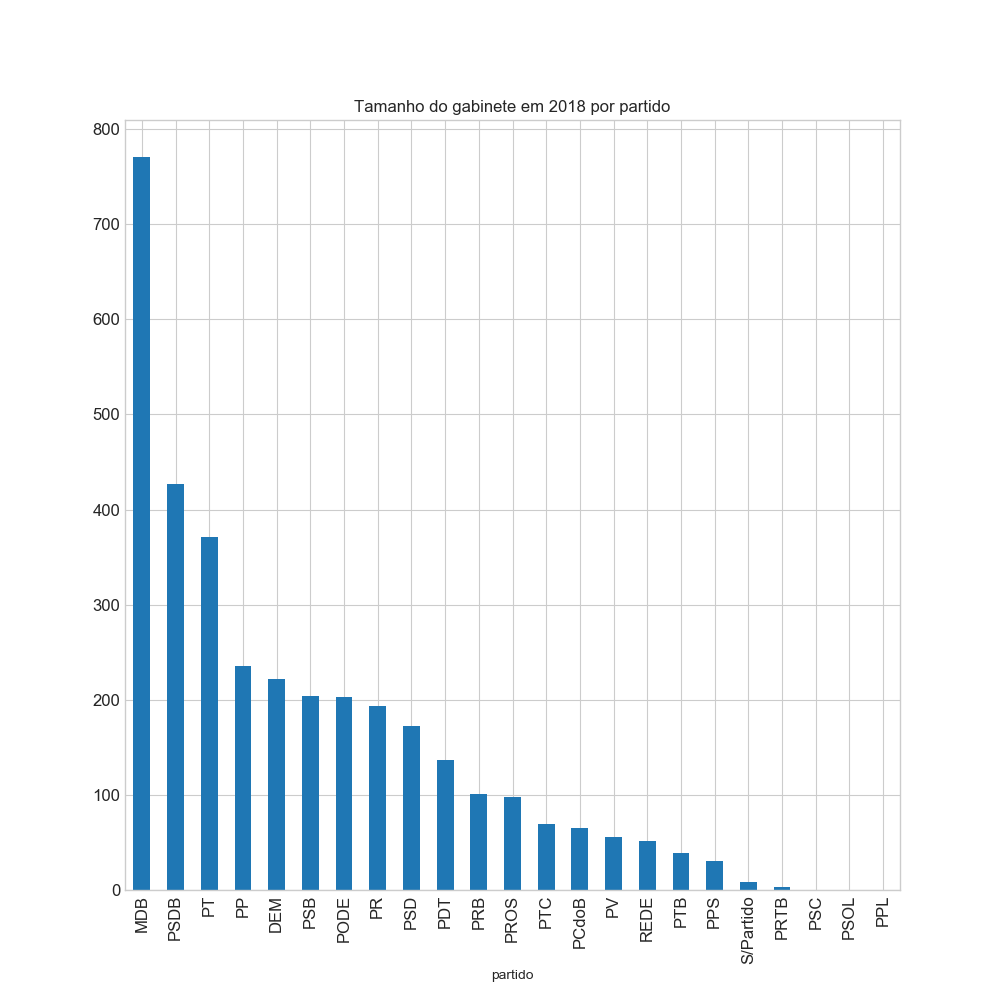
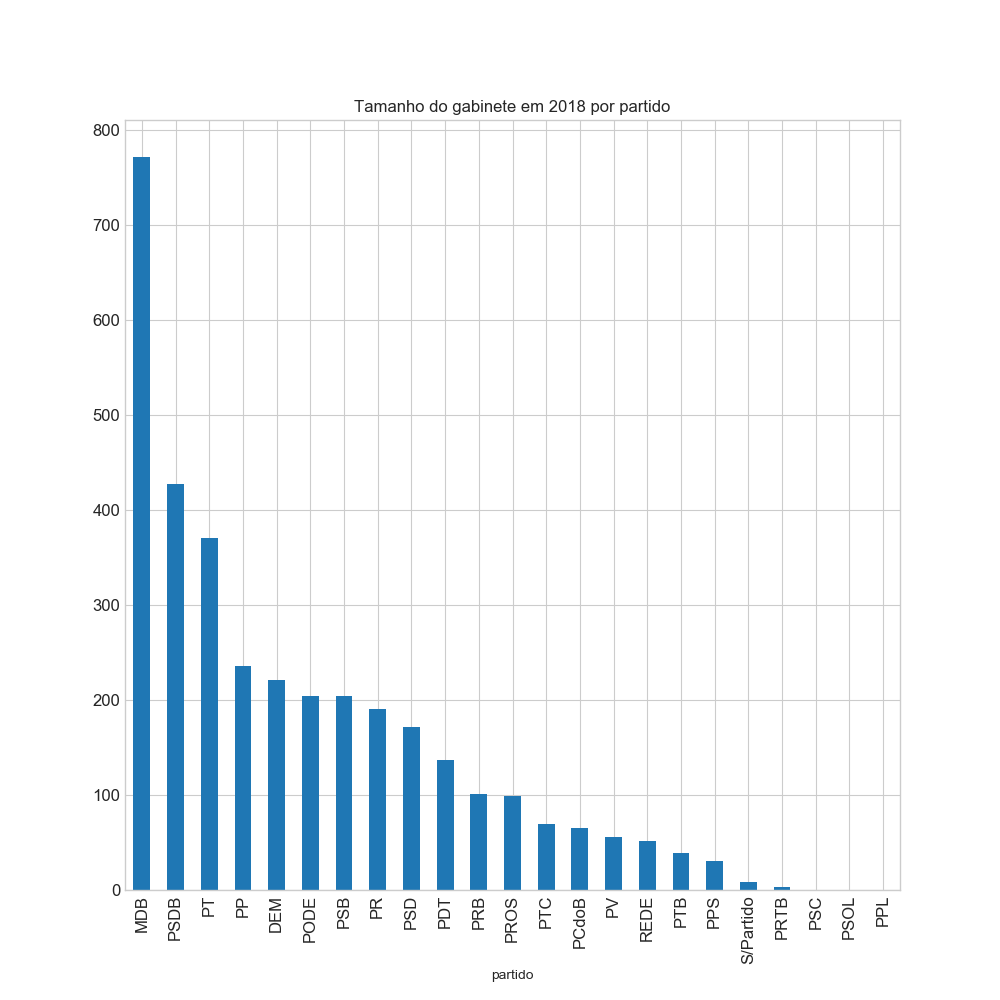
Atualização de dados do Senado (55)- auto

diff --git a/index.html b/index.html
@@ -29,9 +29,9 @@
       <div class="row"><b class="SenadoSubTitle">Informações de despesas de senadores</b><br></div>
       <div class="row"><b class="SenadoSubTitle">Dados coletados em 
 <!--Data-->       
-17/07/2018 às 
+18/07/2018 às 
 <!--Hora-->
-12:19:57      </b><br></div>
+11:19:55      </b><br></div>
       <br>
       <div class="TextoImagem">
         <center>
@@ -181,7 +181,7 @@
               <td>8</td>
               <td align='middle'><a href='http://www6g.senado.leg.br/transparencia/sen/3/?ano=2018' target='_blank'><img src='fotos/senador3.jpg' height='51' width='42'><span class='fototip'>Crédito foto: Cléber Medeiros/Supres</span></a></td>
               <td align='left'>Antonio Carlos Valadares</td>
-              <td align='left' class='gastos' name='3'>R$ 1.178.414,61</td>
+              <td align='left' class='gastos' name='3'>R$ 1.173.122,51</td>
               <td align='left'>Titular</td>
               <td align='middle'>SE</td>
               <td align='left'>PSB</td>
@@ -207,7 +207,7 @@
               <td align='left'>1º Suplente</td>
               <td align='middle'>TO</td>
               <td align='left'>PSDB</td>
-              <td align='right'>53 pessoas</td>
+              <td align='right'>54 pessoas</td>
               <td align='right'>41 meses</td>
             </tr>
             <tr>
@@ -416,7 +416,7 @@
               <td align='left'>1º Suplente</td>
               <td align='middle'>DF</td>
               <td align='left'>PROS</td>
-              <td align='right'>98 pessoas</td>
+              <td align='right'>99 pessoas</td>
               <td align='right'>0 meses</td>
             </tr>
             <tr>
@@ -537,7 +537,7 @@
               <td align='left'>Titular</td>
               <td align='middle'>SP</td>
               <td align='left'>PSDB</td>
-              <td align='right'>24 pessoas</td>
+              <td align='right'>23 pessoas</td>
               <td align='right'>39 meses</td>
             </tr>
             <tr>
@@ -625,7 +625,7 @@
               <td align='left'>Titular</td>
               <td align='middle'>SP</td>
               <td align='left'>MDB</td>
-              <td align='right'>43 pessoas</td>
+              <td align='right'>44 pessoas</td>
               <td align='right'>41 meses</td>
             </tr>
             <tr>
@@ -823,7 +823,7 @@
               <td align='left'>Titular</td>
               <td align='middle'>RJ</td>
               <td align='left'>PODE</td>
-              <td align='right'>37 pessoas</td>
+              <td align='right'>38 pessoas</td>
               <td align='right'>0 meses</td>
             </tr>
             <tr>
@@ -933,7 +933,7 @@
               <td align='left'>Titular</td>
               <td align='middle'>TO</td>
               <td align='left'>PR</td>
-              <td align='right'>67 pessoas</td>
+              <td align='right'>65 pessoas</td>
               <td align='right'>41 meses</td>
             </tr>
             <tr>
@@ -966,7 +966,7 @@
               <td align='left'>1º Suplente</td>
               <td align='middle'>GO</td>
               <td align='left'>DEM</td>
-              <td align='right'>33 pessoas</td>
+              <td align='right'>32 pessoas</td>
               <td align='right'>41 meses</td>
             </tr>
             <tr>
